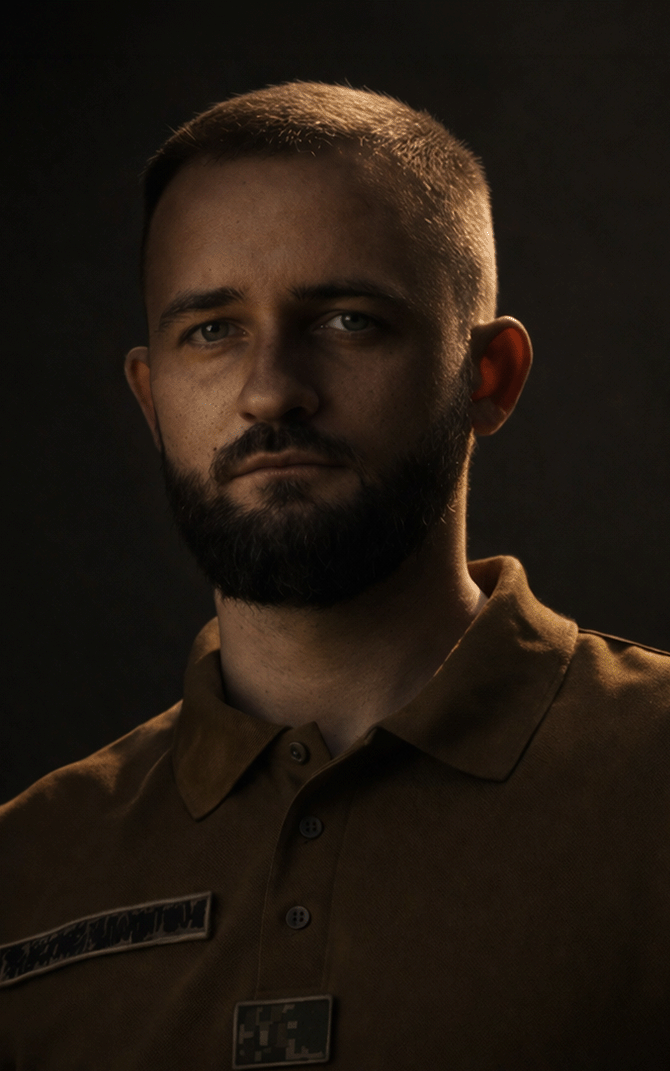
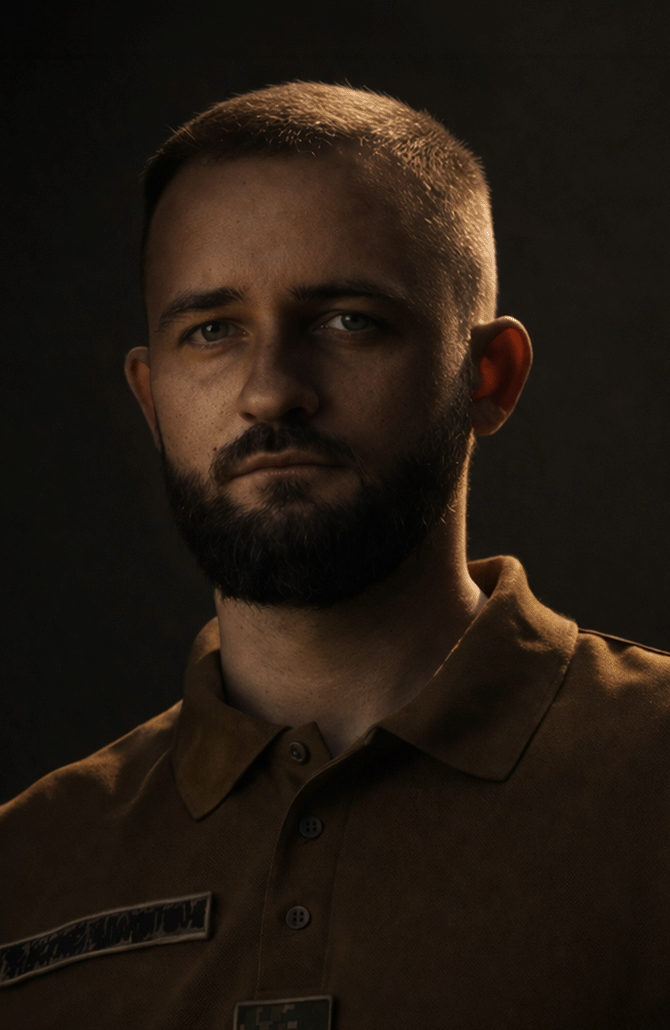
Changes

diff --git a/.lovable/plan.md b/.lovable/plan.md
@@ -1,18 +1,18 @@
 ## Goal
-On the About page, the commander's photo currently ends much higher than the bio text. Extend the photo downward so its bottom edge aligns roughly with the last line of text ("...пліч-о-пліч із бійцями.").
+Trim the bottom of `src/assets/samosudov-cropped.png` so the photo ends at the lower third of the lower camo patch (top two-thirds of that patch remain visible, bottom third and the dark space below are cut off).
 
 ## Approach
-Re-crop `src/assets/samosudov-cropped.png` from the original `src/assets/samosudov.png`:
-- Keep the left eye horizontally centered (current center x ≈ 1298).
-- Keep the top of the current crop unchanged.
-- Extend the bottom down to include more of the torso, producing a portrait (taller) aspect instead of square.
-- Target aspect ≈ 3:4 (e.g. 670 × 893) so the rendered image grows in height to better match the text column.
+Re-crop from the original `src/assets/samosudov.png`:
+- Horizontal crop unchanged (x: 963 → 1633, width 670, left eye centered).
+- Top: y = 0.
+- Bottom: y ≈ 1030 (cut just at the lower third of the lower camo patch).
 
-The exact final height may need a small tweak after a visual check — the text column height depends on viewport, so we aim for a natural portrait crop that visually reaches the end of the paragraphs at desktop widths.
+Final size: 670 × 1030.
 
 ## Files to change
-- `src/assets/samosudov-cropped.png` — regenerated with taller crop.
-- No code changes required in `src/pages/About.tsx` (image already uses `w-full max-w-md`, so a taller source naturally renders taller).
+- `src/assets/samosudov-cropped.png` — regenerated.
+
+No code changes in `src/pages/About.tsx`.
 
 ## Verification
-Re-view the regenerated image and the live preview to confirm the bottom of the photo lines up with the end of the bio paragraphs at the current desktop viewport.
+View the regenerated image to confirm the photo ends at the lower third of the lower camo patch — the upper 2/3 of the patch remains, and the dark strip below is gone.
